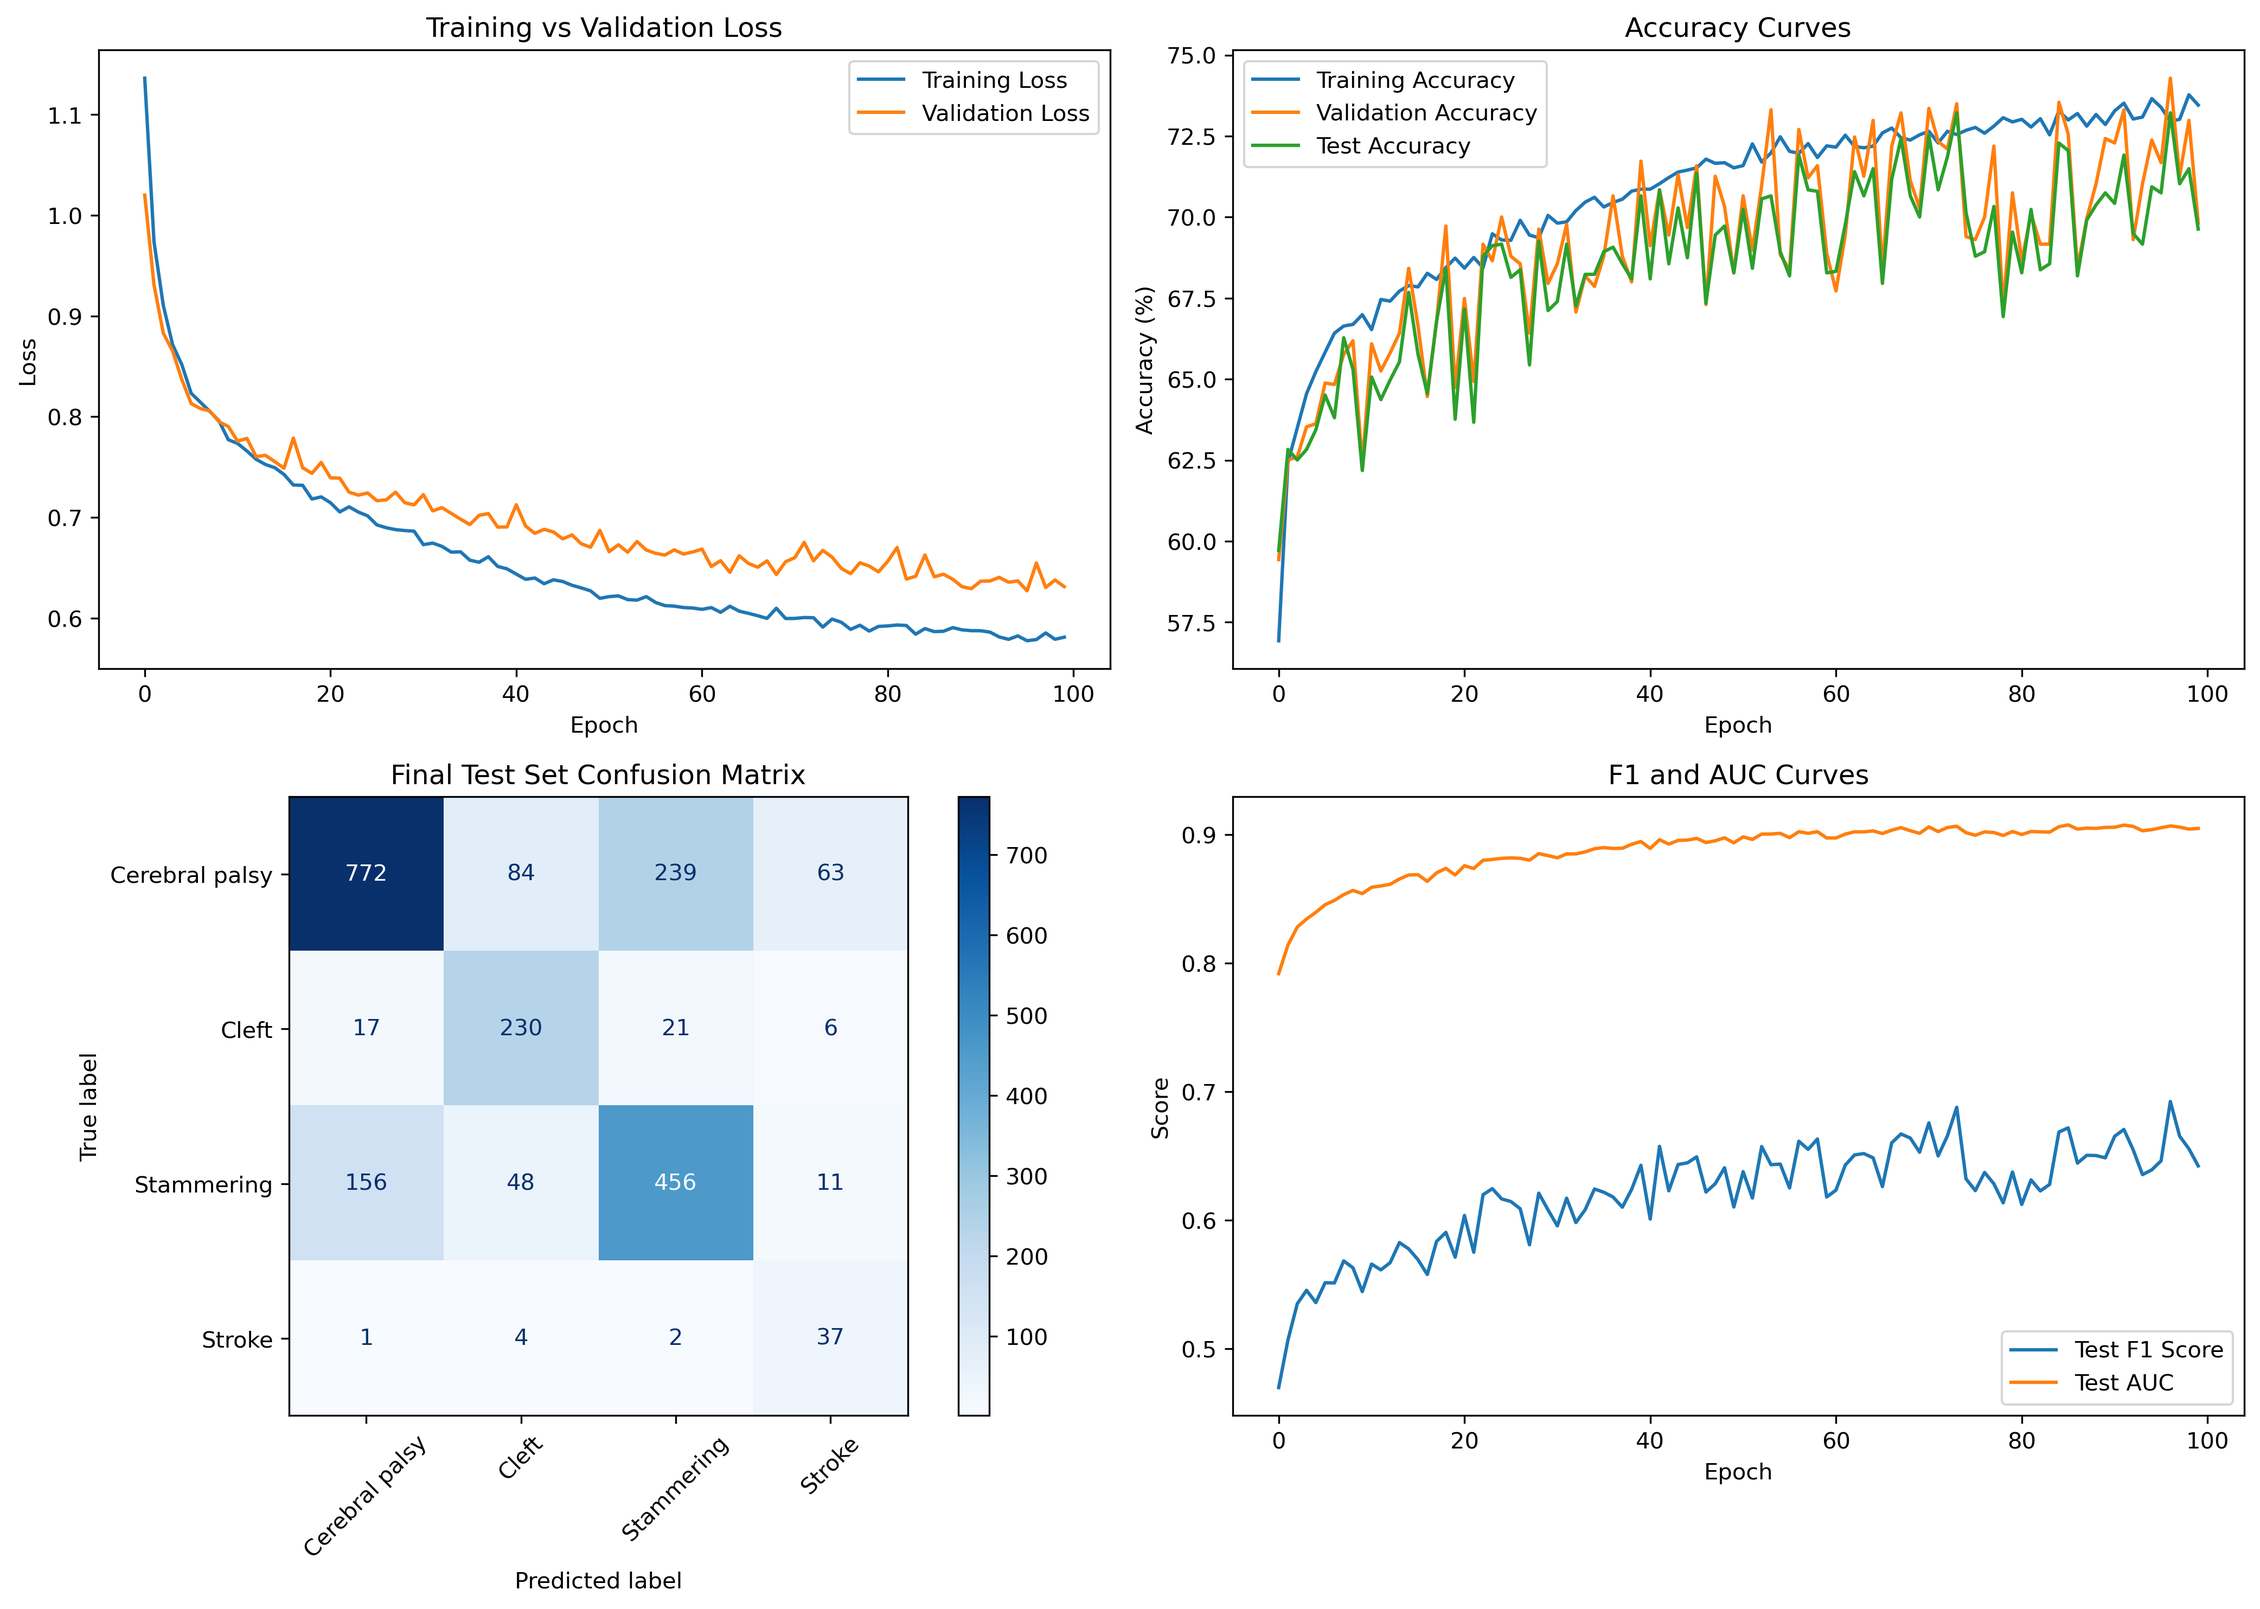
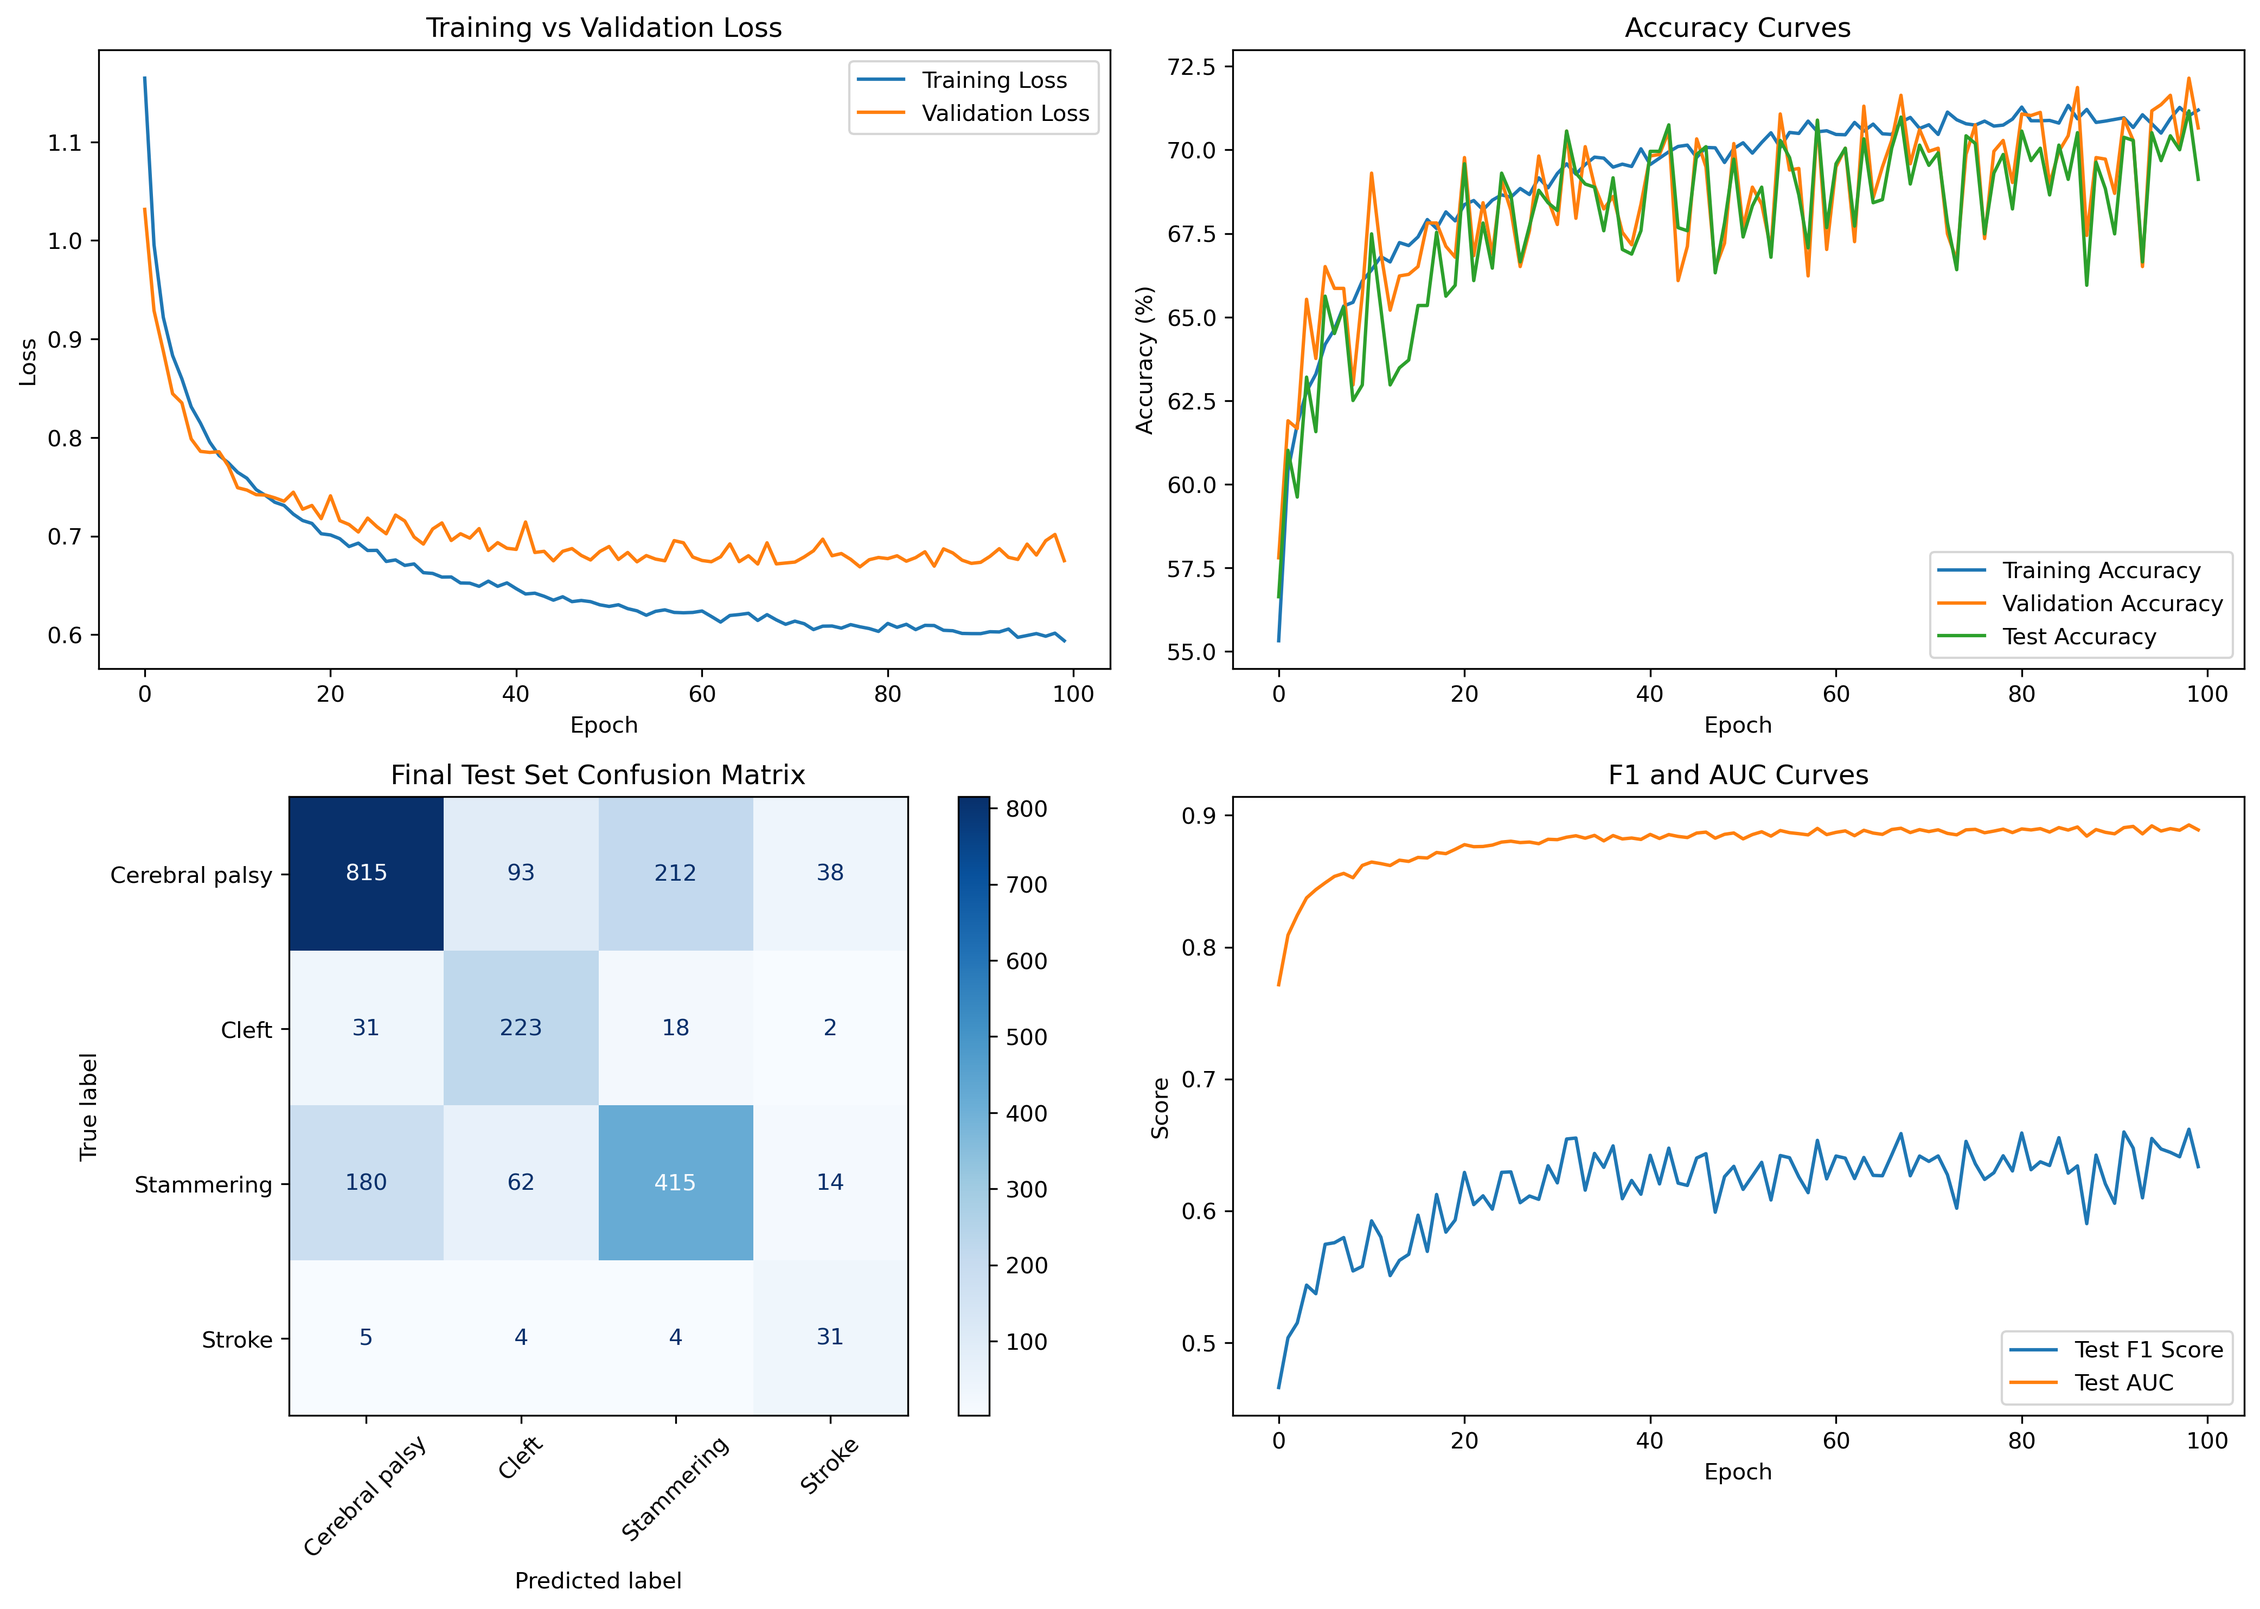
second wave of UGAkan

diff --git a/benchmark/cnn/UGAkan/UGAkan_cnn.py b/benchmark/cnn/UGAkan/UGAkan_cnn.py
@@ -42,8 +42,8 @@ class Config:
 
     # 训练相关
     RANDOM_STATE = 42
-    BATCH_SIZE = 8
-    LEARNING_RATE = 0.001
+    BATCH_SIZE = 16
+    LEARNING_RATE = 0.002
     NUM_EPOCHS = 100
     CLASS_WEIGHTS = [1.0, 1.0, 1.0, 1.0]  # 初始值，后续会动态计算
 
@@ -111,7 +111,7 @@ class UGADataset(BaseDataset):
         durations = np.array(durations)
         mean_dur = np.mean(durations)
         median_dur = np.median(durations)
-        p95_dur = np.percentile(durations, 95)  # 95分位数（排除5%的超长音频）
+        p95_dur = np.percentile(durations, 85)  # 95分位数（排除5%的超长音频）
         
         print(f"\n音频时长分布统计:")
         print(f"均值: {mean_dur:.2f}秒，中位数: {median_dur:.2f}秒，95分位数: {p95_dur:.2f}秒")
@@ -186,13 +186,29 @@ class UGADataset(BaseDataset):
                     features.append(feat)
                     labels.append(lab)
         
-        # 结果统计
+        # 打印错误信息（参考MLP的错误展示方式）
         if errors:
-            print(f"{len(errors)} 个文件处理失败（见日志）")
+            print(f"\n处理完成，共 {len(errors)} 个文件处理失败:")
+            for err in errors[:10]:  # 只显示前10个错误
+                print(err)
+            if len(errors) > 10:
+                print(f"... 还有 {len(errors)-10} 个错误未显示")
         
+        # 验证数据加载结果
+        if len(features) == 0:
+            raise ValueError("未加载到任何有效数据，请检查数据格式和路径")
+            
         features = np.array(features)
         labels = np.array(labels)
-        print(f"数据集加载完成 - 特征形状: {features.shape}（高度={Config.N_MELS}, 宽度={features.shape[2]}）")
+        
+        # 打印数据集统计信息（参考MLP的统计格式）
+        print(f"\n数据集加载完成 - 特征形状: {features.shape}（高度={Config.N_MELS}, 宽度={features.shape[2]}）")
+        for i, class_name in enumerate(Config.CLASS_NAMES):
+            count = np.sum(labels == i)
+            print(f"{class_name} 样本数 ({i}): {count} ({count/len(labels)*100:.2f}%)")
+        print(f"总样本数: {len(labels)}")
+        print(f"处理成功率: {len(features)/len(file_list)*100:.2f}%")
+        
         return features, labels
 
 def main():
